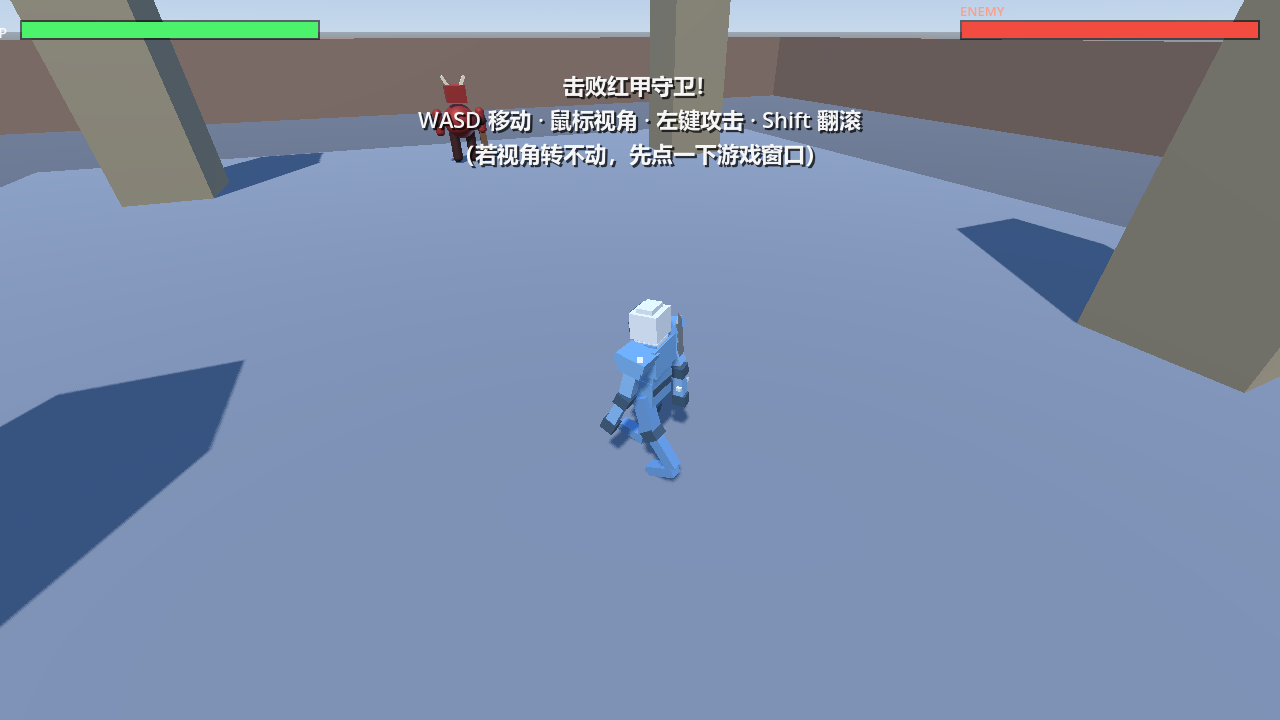
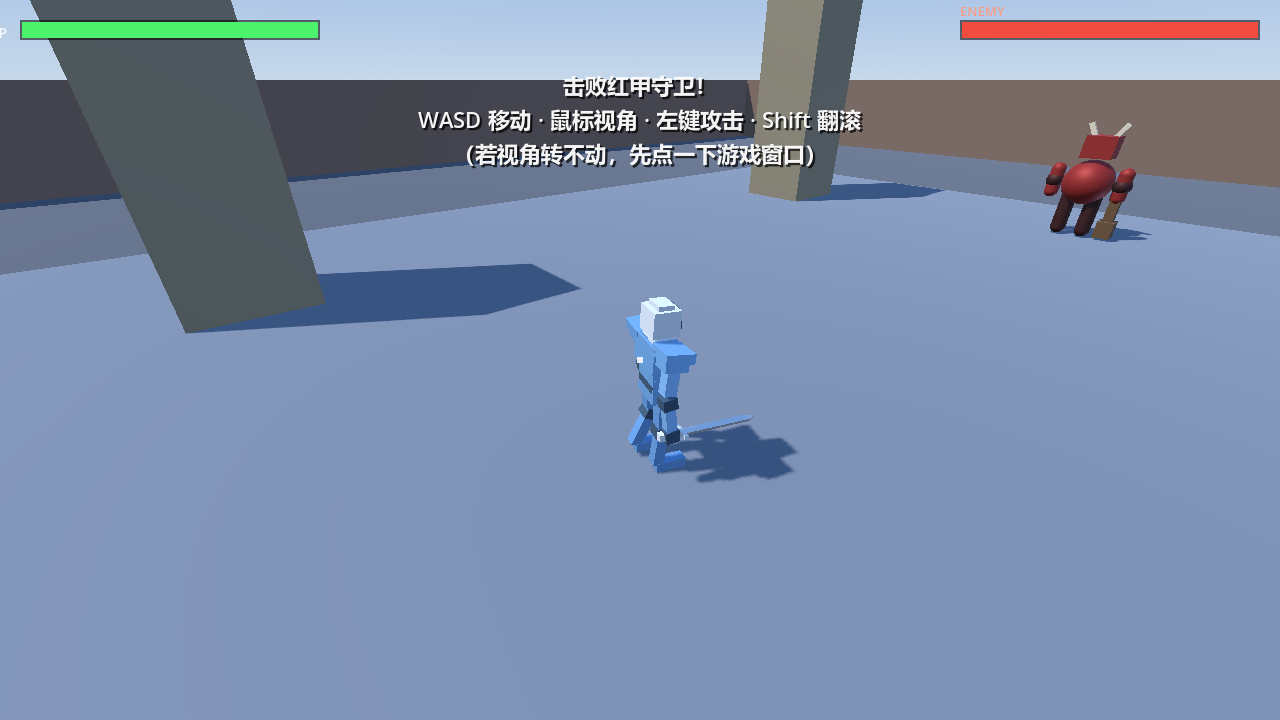
fix: 武器改为沿挂点骨骼+Y朝身前(握柄偏差0m/夹角8deg，不再嵌在手臂里)；跳跃改两段式(地面蓄力0.18s播完蹬地才离地)；测试扩至58项

diff --git a/README.md b/README.md
@@ -107,14 +107,14 @@ docs/GAME_DESIGN.md       # 设计文档与后续方向
 | `Walk` | 1.04s | ✅ | 移动中（站住即停） | 当前速度 ÷ `walk_natural_speed`，上限 `walk_max_speed_scale` |
 | `RollLeap` | 0.458s | 单次 | Shift 翻滚 | 动画时长 ÷ `roll_time` |
 | `Slash` | 0.542s | 单次 | 左键攻击（判定窗 `0.17~0.28s` = 实测剑刃最快段） | 动画时长 ÷ `attack_total` |
-| `JumpStart` | 0.375s | 单次 | 起跳瞬间 | 动画时长 ÷ (起跳初速度 ÷ 重力) |
+| `JumpStart` | 0.375s | 单次 | **起跳蓄力段（仍在地面）**，播完才真正离地 | 动画时长 ÷ `jump_prep_time` |
 | `JumpAir` | 0.542s | ✅ | 离地后直到落地 | 1.0 |
 
 动画状态机要点（都在 `scripts/player/player.gd`）：
 - 动画名按"小写 + 忽略下划线"匹配（`roll` / `walk` / `slash|attack` / `jumpstart|jumpup` / `jumpair|air|fall`），换模型/改动画名后无需改代码
 - **循环必须显式打开**：glTF 没有循环标记，代码会把 Walk / JumpAir 设为 `LOOP_LINEAR`，否则只播一次就定住
 - **骨骼复位**：骨骼动画一停播，骨骼会冻在停播那一帧（走到一半停下→僵在迈步中途；落地→僵在蜷腿姿势）。所以"没有对应动画"的状态（待机 / 受击 / 死亡 / 落地后）统一调用 `_anim_to_rest()` 把骨骼复位到绑定姿势，再由脚本叠加整体姿态与落地压缩
-- 起跳瞬间角色还没离地，因此"落地收动画"必须由状态机在 `JUMP → MOVE` 切换时处理，不能按 `is_on_floor()` 在动画分支里判断（会掐断 JumpStart）
+- **两段式起跳**：`JUMP_PREP`（地面蓄力，播 JumpStart）→ 蓄力结束才 `_launch_jump()` 给向上速度并切 `JUMP`（播 JumpAir）。这样蹬地动画不会在已经飞起来之后还在播
 - 这套动画**不含净水平位移**（前进量由速度逻辑负责），所以翻滚不再需要"根位移过继"
 - 骨架动画目前没有 Idle / 受击 / 死亡片段：待机用绑定姿势、受击用后仰、死亡用整体倒地；补上动画后可自动接入
 
@@ -122,10 +122,16 @@ docs/GAME_DESIGN.md       # 设计文档与后续方向
 
 - 武器资产：`assets/weapons/sword_01/sword_01.glb`（原点 = 握把中心、**刀身沿局部 -Z**）
 - 挂载方式：`BoneAttachment3D` 挂在角色骨骼 `weapon.R` 上；换武器只需 `player.equip_weapon(场景)`，**角色模型与全部动画都不用动**
-- ⚠ **不能单位变换直挂**：`weapon.R` 的静止基是 +Z≈模型上方、+Y≈模型前方，直挂会让刀身朝下（实测整把剑掉到 y≈-0.4、中心偏差 0.955m）
-- 代码用固定对齐变换 `WEAPON_ALIGN_MODEL`（绕 X +90° 把刀身立起 + 平移到"武器分离前"的旧握柄中心）修正，**实测中心偏差 0.034m**
-- 对齐偏移设在**武器子节点**上：`BoneAttachment3D` 自己的 transform 每帧会被引擎用骨骼姿势覆盖，设在挂点上无效
-- 回归验证：`tools/check_weapon.tscn` 打印实测包围盒并与基准对比；自动测试含 5 项武器断言（挂点骨骼 / 静止位置 / 刀身朝上 / 挥砍跟随 / 命中窗）
+- 对齐规则：**握柄停在骨骼原点（拳心）、刀身沿骨骼 +Y（= 模型前方 / 身前）**
+  - 实测 `weapon.R` 静止基：+Y ≈ 模型 −Z（前方）、+Z ≈ 模型 +Y（上方）、+X ≈ 模型 +X（右侧）——
+    骨骼本身就是"沿 +Y 指向前方"的持械轴
+  - 武器刀身沿自身 −Z，所以对齐 = 绕骨骼 X 轴 +90°（`WEAPON_ALIGN_LOCAL`），**实测结果：握柄偏差 0.000m、刀身与身前夹角 8°**
+- ⚠ 两个踩过的坑：
+  1. **不能单位变换直挂**：那样刀身会沿骨骼 −Z 朝**下**（实测整把剑掉到 y≈−0.4）
+  2. **不能照抄"武器分离前"的旧位置**：旧模型里剑是竖直朝上贴着**手臂**的，照抄会让刀身陷在手臂网格里（看起来像"嵌在手臂中"）
+- 对齐偏移必须设在**武器子节点**上：`BoneAttachment3D` 自己的 transform 每帧会被引擎用骨骼姿态覆盖，设在挂点上无效
+- 想换成"刃朝上/刃朝下"等其它握法：只改 `WEAPON_ALIGN_LOCAL` 一个常量即可（绕 X 轴 ±90° / 改 roll）
+- 回归验证：`tools/check_weapon.tscn`（打印握柄↔拳心距离、刀身↔身前夹角、剑与手臂的包围盒）；自动测试含 6 项武器断言
 
 ## 命中判定窗是怎么定的
 
@@ -146,6 +152,7 @@ docs/GAME_DESIGN.md       # 设计文档与后续方向
 | 参数 | 默认 | 作用 |
 |---|---|---|
 | `jump_velocity` | 7.4 | 起跳初速度；最高点 ≈ v²/(2g) |
+| `jump_prep_time` | 0.18 | **地面蓄力时长**：先在地面播完 JumpStart 蹬地动作才离地；0 = 立即起跳(无蓄力) |
 | `jump_cut_multiplier` | 2.0 | 上升中松开跳跃键的重力倍数 → 轻点=小跳 |
 | `fall_gravity_multiplier` | 1.35 | 下落重力倍数 → 落地干净不飘 |
 | `air_accel` | 9.0 | 空中水平操控（小于地面 accel → 跳跃有承诺感） |
@@ -158,6 +165,9 @@ docs/GAME_DESIGN.md       # 设计文档与后续方向
 跳跃相关的设计取舍：
 - 跳跃**不能取消**攻击/翻滚，攻击/翻滚/受击硬直中按跳跃无效（动作要有承诺感）
 - 空中不能二段跳；空中也不能攻击、不能翻滚（M2 可扩展为空战）
+- **起跳是两段式**：按下 → `JUMP_PREP` 地面蓄力 0.18s（播 JumpStart 蹬地）→ 真正离地进入 `JUMP`（播 JumpAir）。
+  好处是蹬地动画与"离地"这一事件对齐；代价是起跳有 0.18s 预备。想更跟手就把 `jump_prep_time` 调小（0.10~0.15），
+  想更有重量感就调大（0.20~0.28）；设为 0 则恢复"一按即起跳"（此时蹬地动画会来不及播完）。
 
 ## 已知取舍（动画相关）
 

diff --git a/docs/GAME_DESIGN.md b/docs/GAME_DESIGN.md
@@ -62,10 +62,15 @@ UI/设置存档 / 演出 / 发布构建
 - **武器与角色分离**：角色只带挂点骨骼 `weapon.R`，武器在 Godot 里用 `BoneAttachment3D` 附加。
   换武器只需导出新武器资产并调用 `player.equip_weapon(...)`，**角色模型与全部动画不用动**。
 - **武器对齐（实测修正）**：武器资产的原点 = 握把中心、**刀身沿局部 -Z**。
-  挂点骨骼 `weapon.R` 的静止基是 +Z≈模型上方、+Y≈模型前方，所以**不能单位变换直挂**——
-  那样刀身会朝下（实测整把剑掉到 y≈-0.4、中心偏差 0.955 m）。
-  现用固定对齐变换 `WEAPON_ALIGN_MODEL`（绕 X +90° 让刀身立起 + 平移到"分离前"的旧握柄中心）修正，
-  **实测中心偏差 0.034 m**；回归方式：`tools/check_weapon.tscn` + 自动测试的武器断言。
+  挂点骨骼 `weapon.R` 的静止基实测为 +Y≈模型前方(-Z)、+Z≈模型上方、+X≈模型右侧——
+  即"沿 +Y 指向前方"的持械轴。因此对齐规则是：**握柄停在骨骼原点(拳心)、刀身沿骨骼 +Y 指向身前**，
+  代码里就是常量 `WEAPON_ALIGN_LOCAL`（绕骨骼 X 轴 +90°）。
+  两个踩过的坑：① 单位变换直挂会让刀身朝**下**（整把剑掉到 y≈-0.4）；
+  ② 照抄"武器分离前"旧模型的竖直位置会让刀身**嵌在手臂里**（旧模型里剑就是贴着手臂竖直朝上的）。
+  实测结果：握柄偏差 **0.000 m**、刀身与身前夹角 **8°**；回归方式：
+  `tools/check_weapon.tscn` + 自动测试的 6 项武器断言。
+- **跳跃是两段式**：`JUMP_PREP`(地面蓄力 0.18s，播 `JumpStart` 蹬地) → `_launch_jump()` 给向上速度并进入 `JUMP`(播 `JumpAir`)。
+  这样"蹬地动画"与"离地时刻"对齐（否则一按就起飞、人已在空中还在播蹬地）。蓄力时长由 `jump_prep_time` 调（0=立即起跳）。
 - **改模型流程**：用 Blender 打开 blenderproject 里的源文件 → 修改 → 导出 GLB（勾选 Animation）→ 覆盖 `assets/characters/player_knight/player_knight.glb` → Godot 自动重新导入
 - **Godot 接入状态**：`scripts/player/player.gd` 已接线——自动识别模型动画并按状态播放（MOVE→Walk / ROLL→RollLeap / ATTACK→Slash / JUMP→JumpStart→JumpAir）；未识别到动画时退回原语"小蓝人"与脚本姿态兜底
 - 想让 AI 改模型时，直接说"改 `E:\blender\blenderproject\player_knight` 里的模型"即可
